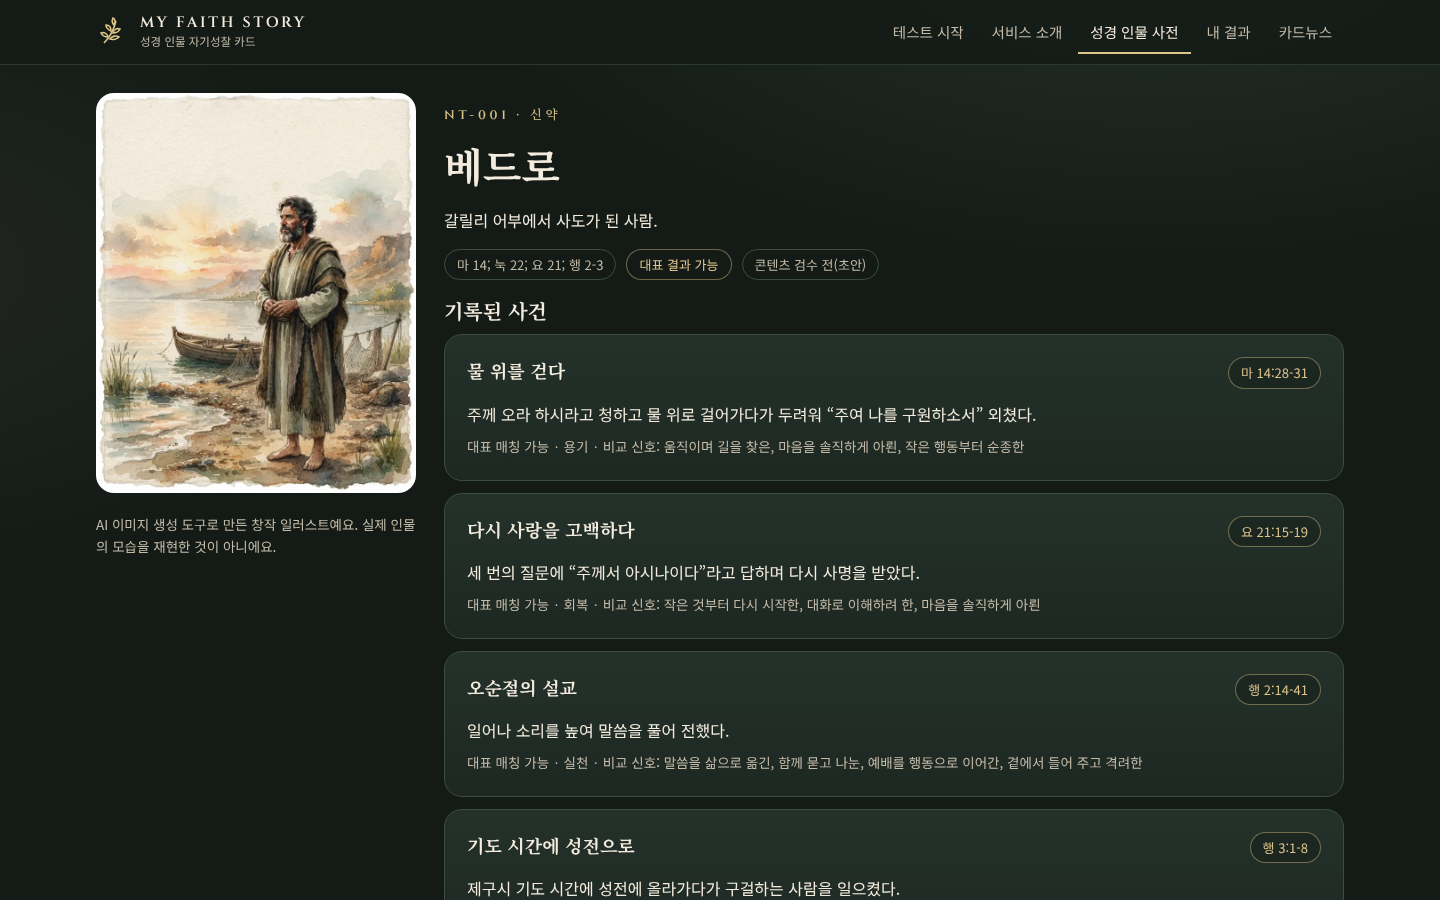
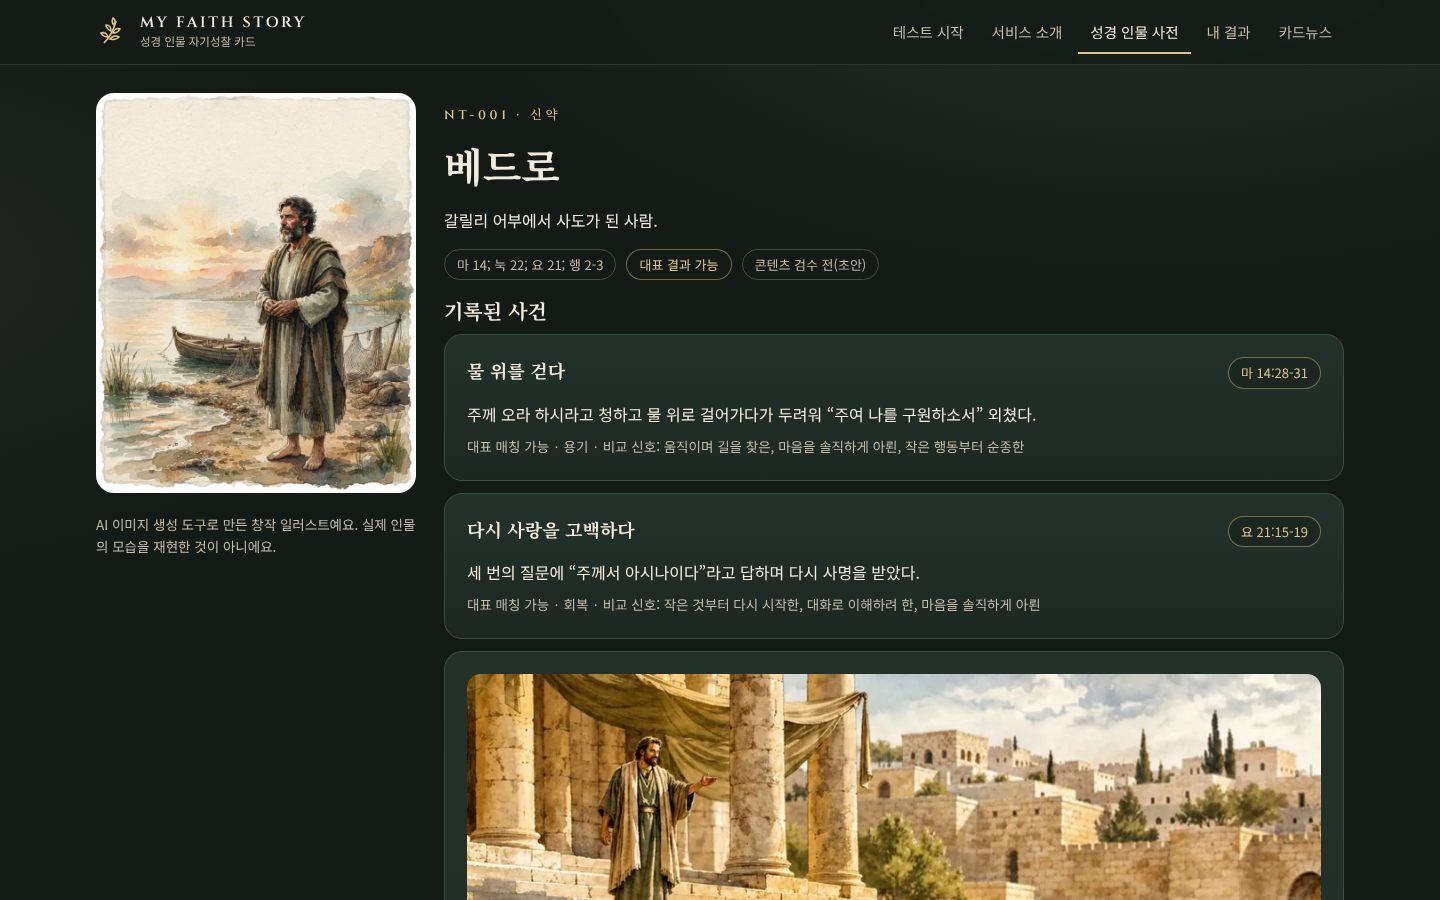
Add Peter (Pentecost) scene illustration; rebuild hosting (8 scenes)
Claude-Session: https://claude.ai/code/session_014c9vFgBS4BdK9e3m5zEueQ

Changed region(s): [[0.3125, 0.7467, 0.9375, 1.0]]

diff --git a/dist/index.html b/dist/index.html
@@ -291,7 +291,7 @@ figure.scene figcaption{position:absolute;left:10px;bottom:8px;font-size:11px;co
   <p style="margin:0">결과는 응답 기반의 콘텐츠 비교이며 신앙 수준·구원·인격에 대한 평가가 아닙니다. 인물·사건 데이터는 검수 전 초안입니다. 인물 일러스트는 AI 생성 창작물이며, ‘임시’ 표시가 있는 그림은 교체 예정입니다.</p>
 </div></footer>
 <script>
-window.MFS_PORTRAITS=["nt-andrew","nt-james-zebedee","nt-john","nt-nicodemus","nt-paul","nt-peter","nt-philip-apostle","nt-samaritan-woman","nt-thomas","nt-timothy","nt-zacchaeus","ot-aaron","ot-abigail","ot-abraham","ot-asa","ot-asaph","ot-caleb","ot-daniel","ot-david","ot-deborah","ot-elijah","ot-elisha","ot-enoch","ot-esther","ot-ezra","ot-gideon","ot-hagar","ot-hannah","ot-hezekiah","ot-isaac","ot-isaiah","ot-jacob","ot-jehoiada","ot-jehoshaphat","ot-jeremiah","ot-job","ot-jonah","ot-joseph","ot-joshua","ot-josiah","ot-leah","ot-miriam","ot-moses","ot-nehemiah","ot-noah","ot-rahab","ot-rebekah","ot-ruth","ot-samuel","ot-solomon"];window.MFS_OPTION_IMAGES=["Q01-A","Q01-B","Q02-A","Q02-B","Q03-A","Q03-B","Q04-A","Q04-B","Q05-A","Q05-B","Q06-A","Q06-B","Q07-A","Q07-B","Q08-A","Q08-B","Q09-A","Q09-B","Q10-A","Q10-B","Q11-A","Q11-B","Q12-A","Q12-B"];window.MFS_SCENES=["nt-anna-1","nt-cornelius-1","nt-mary-bethany-1","nt-titus-1","ot-daniel-2","ot-elijah-4","ot-noah-1"];
+window.MFS_PORTRAITS=["nt-andrew","nt-james-zebedee","nt-john","nt-nicodemus","nt-paul","nt-peter","nt-philip-apostle","nt-samaritan-woman","nt-thomas","nt-timothy","nt-zacchaeus","ot-aaron","ot-abigail","ot-abraham","ot-asa","ot-asaph","ot-caleb","ot-daniel","ot-david","ot-deborah","ot-elijah","ot-elisha","ot-enoch","ot-esther","ot-ezra","ot-gideon","ot-hagar","ot-hannah","ot-hezekiah","ot-isaac","ot-isaiah","ot-jacob","ot-jehoiada","ot-jehoshaphat","ot-jeremiah","ot-job","ot-jonah","ot-joseph","ot-joshua","ot-josiah","ot-leah","ot-miriam","ot-moses","ot-nehemiah","ot-noah","ot-rahab","ot-rebekah","ot-ruth","ot-samuel","ot-solomon"];window.MFS_OPTION_IMAGES=["Q01-A","Q01-B","Q02-A","Q02-B","Q03-A","Q03-B","Q04-A","Q04-B","Q05-A","Q05-B","Q06-A","Q06-B","Q07-A","Q07-B","Q08-A","Q08-B","Q09-A","Q09-B","Q10-A","Q10-B","Q11-A","Q11-B","Q12-A","Q12-B"];window.MFS_SCENES=["nt-anna-1","nt-cornelius-1","nt-mary-bethany-1","nt-peter-3","nt-titus-1","ot-daniel-2","ot-elijah-4","ot-noah-1"];
 ;
 /* MY FAITH STORY — content data (v6.0). Shared by the browser app and Node QA scripts.
  * All character/event entries are DRAFTS: scripture references and summaries are the

diff --git a/dist/standalone.html b/dist/standalone.html
@@ -293,7 +293,7 @@ figure.scene figcaption{position:absolute;left:10px;bottom:8px;font-size:11px;co
   <p style="margin:0">결과는 응답 기반의 콘텐츠 비교이며 신앙 수준·구원·인격에 대한 평가가 아닙니다. 인물·사건 데이터는 검수 전 초안입니다. 인물 일러스트는 AI 생성 창작물이며, ‘임시’ 표시가 있는 그림은 교체 예정입니다.</p>
 </div></footer>
 <script>
-window.MFS_PORTRAITS=["nt-andrew","nt-james-zebedee","nt-john","nt-nicodemus","nt-paul","nt-peter","nt-philip-apostle","nt-samaritan-woman","nt-thomas","nt-timothy","nt-zacchaeus","ot-aaron","ot-abigail","ot-abraham","ot-asa","ot-asaph","ot-caleb","ot-daniel","ot-david","ot-deborah","ot-elijah","ot-elisha","ot-enoch","ot-esther","ot-ezra","ot-gideon","ot-hagar","ot-hannah","ot-hezekiah","ot-isaac","ot-isaiah","ot-jacob","ot-jehoiada","ot-jehoshaphat","ot-jeremiah","ot-job","ot-jonah","ot-joseph","ot-joshua","ot-josiah","ot-leah","ot-miriam","ot-moses","ot-nehemiah","ot-noah","ot-rahab","ot-rebekah","ot-ruth","ot-samuel","ot-solomon"];window.MFS_OPTION_IMAGES=["Q01-A","Q01-B","Q02-A","Q02-B","Q03-A","Q03-B","Q04-A","Q04-B","Q05-A","Q05-B","Q06-A","Q06-B","Q07-A","Q07-B","Q08-A","Q08-B","Q09-A","Q09-B","Q10-A","Q10-B","Q11-A","Q11-B","Q12-A","Q12-B"];window.MFS_SCENES=["nt-anna-1","nt-cornelius-1","nt-mary-bethany-1","nt-titus-1","ot-daniel-2","ot-elijah-4","ot-noah-1"];
+window.MFS_PORTRAITS=["nt-andrew","nt-james-zebedee","nt-john","nt-nicodemus","nt-paul","nt-peter","nt-philip-apostle","nt-samaritan-woman","nt-thomas","nt-timothy","nt-zacchaeus","ot-aaron","ot-abigail","ot-abraham","ot-asa","ot-asaph","ot-caleb","ot-daniel","ot-david","ot-deborah","ot-elijah","ot-elisha","ot-enoch","ot-esther","ot-ezra","ot-gideon","ot-hagar","ot-hannah","ot-hezekiah","ot-isaac","ot-isaiah","ot-jacob","ot-jehoiada","ot-jehoshaphat","ot-jeremiah","ot-job","ot-jonah","ot-joseph","ot-joshua","ot-josiah","ot-leah","ot-miriam","ot-moses","ot-nehemiah","ot-noah","ot-rahab","ot-rebekah","ot-ruth","ot-samuel","ot-solomon"];window.MFS_OPTION_IMAGES=["Q01-A","Q01-B","Q02-A","Q02-B","Q03-A","Q03-B","Q04-A","Q04-B","Q05-A","Q05-B","Q06-A","Q06-B","Q07-A","Q07-B","Q08-A","Q08-B","Q09-A","Q09-B","Q10-A","Q10-B","Q11-A","Q11-B","Q12-A","Q12-B"];window.MFS_SCENES=["nt-anna-1","nt-cornelius-1","nt-mary-bethany-1","nt-peter-3","nt-titus-1","ot-daniel-2","ot-elijah-4","ot-noah-1"];
 ;
 /* MY FAITH STORY — content data (v6.0). Shared by the browser app and Node QA scripts.
  * All character/event entries are DRAFTS: scripture references and summaries are the

diff --git a/hosting/index.html b/hosting/index.html
@@ -303,7 +303,7 @@ figure.scene figcaption{position:absolute;left:10px;bottom:8px;font-size:11px;co
   <p style="margin:0">결과는 응답 기반의 콘텐츠 비교이며 신앙 수준·구원·인격에 대한 평가가 아닙니다. 인물·사건 데이터는 검수 전 초안입니다. 인물 일러스트는 AI 생성 창작물이며, ‘임시’ 표시가 있는 그림은 교체 예정입니다.</p>
 </div></footer>
 <script>
-window.MFS_PORTRAITS=["nt-andrew","nt-james-zebedee","nt-john","nt-nicodemus","nt-paul","nt-peter","nt-philip-apostle","nt-samaritan-woman","nt-thomas","nt-timothy","nt-zacchaeus","ot-aaron","ot-abigail","ot-abraham","ot-asa","ot-asaph","ot-caleb","ot-daniel","ot-david","ot-deborah","ot-elijah","ot-elisha","ot-enoch","ot-esther","ot-ezra","ot-gideon","ot-hagar","ot-hannah","ot-hezekiah","ot-isaac","ot-isaiah","ot-jacob","ot-jehoiada","ot-jehoshaphat","ot-jeremiah","ot-job","ot-jonah","ot-joseph","ot-joshua","ot-josiah","ot-leah","ot-miriam","ot-moses","ot-nehemiah","ot-noah","ot-rahab","ot-rebekah","ot-ruth","ot-samuel","ot-solomon"];window.MFS_OPTION_IMAGES=["Q01-A","Q01-B","Q02-A","Q02-B","Q03-A","Q03-B","Q04-A","Q04-B","Q05-A","Q05-B","Q06-A","Q06-B","Q07-A","Q07-B","Q08-A","Q08-B","Q09-A","Q09-B","Q10-A","Q10-B","Q11-A","Q11-B","Q12-A","Q12-B"];window.MFS_SCENES=["nt-anna-1","nt-cornelius-1","nt-mary-bethany-1","ot-daniel-2","ot-elijah-4"];
+window.MFS_PORTRAITS=["nt-andrew","nt-james-zebedee","nt-john","nt-nicodemus","nt-paul","nt-peter","nt-philip-apostle","nt-samaritan-woman","nt-thomas","nt-timothy","nt-zacchaeus","ot-aaron","ot-abigail","ot-abraham","ot-asa","ot-asaph","ot-caleb","ot-daniel","ot-david","ot-deborah","ot-elijah","ot-elisha","ot-enoch","ot-esther","ot-ezra","ot-gideon","ot-hagar","ot-hannah","ot-hezekiah","ot-isaac","ot-isaiah","ot-jacob","ot-jehoiada","ot-jehoshaphat","ot-jeremiah","ot-job","ot-jonah","ot-joseph","ot-joshua","ot-josiah","ot-leah","ot-miriam","ot-moses","ot-nehemiah","ot-noah","ot-rahab","ot-rebekah","ot-ruth","ot-samuel","ot-solomon"];window.MFS_OPTION_IMAGES=["Q01-A","Q01-B","Q02-A","Q02-B","Q03-A","Q03-B","Q04-A","Q04-B","Q05-A","Q05-B","Q06-A","Q06-B","Q07-A","Q07-B","Q08-A","Q08-B","Q09-A","Q09-B","Q10-A","Q10-B","Q11-A","Q11-B","Q12-A","Q12-B"];window.MFS_SCENES=["nt-anna-1","nt-cornelius-1","nt-mary-bethany-1","nt-peter-3","nt-titus-1","ot-daniel-2","ot-elijah-4","ot-noah-1"];
 ;
 /* MY FAITH STORY — content data (v6.0). Shared by the browser app and Node QA scripts.
  * All character/event entries are DRAFTS: scripture references and summaries are the
